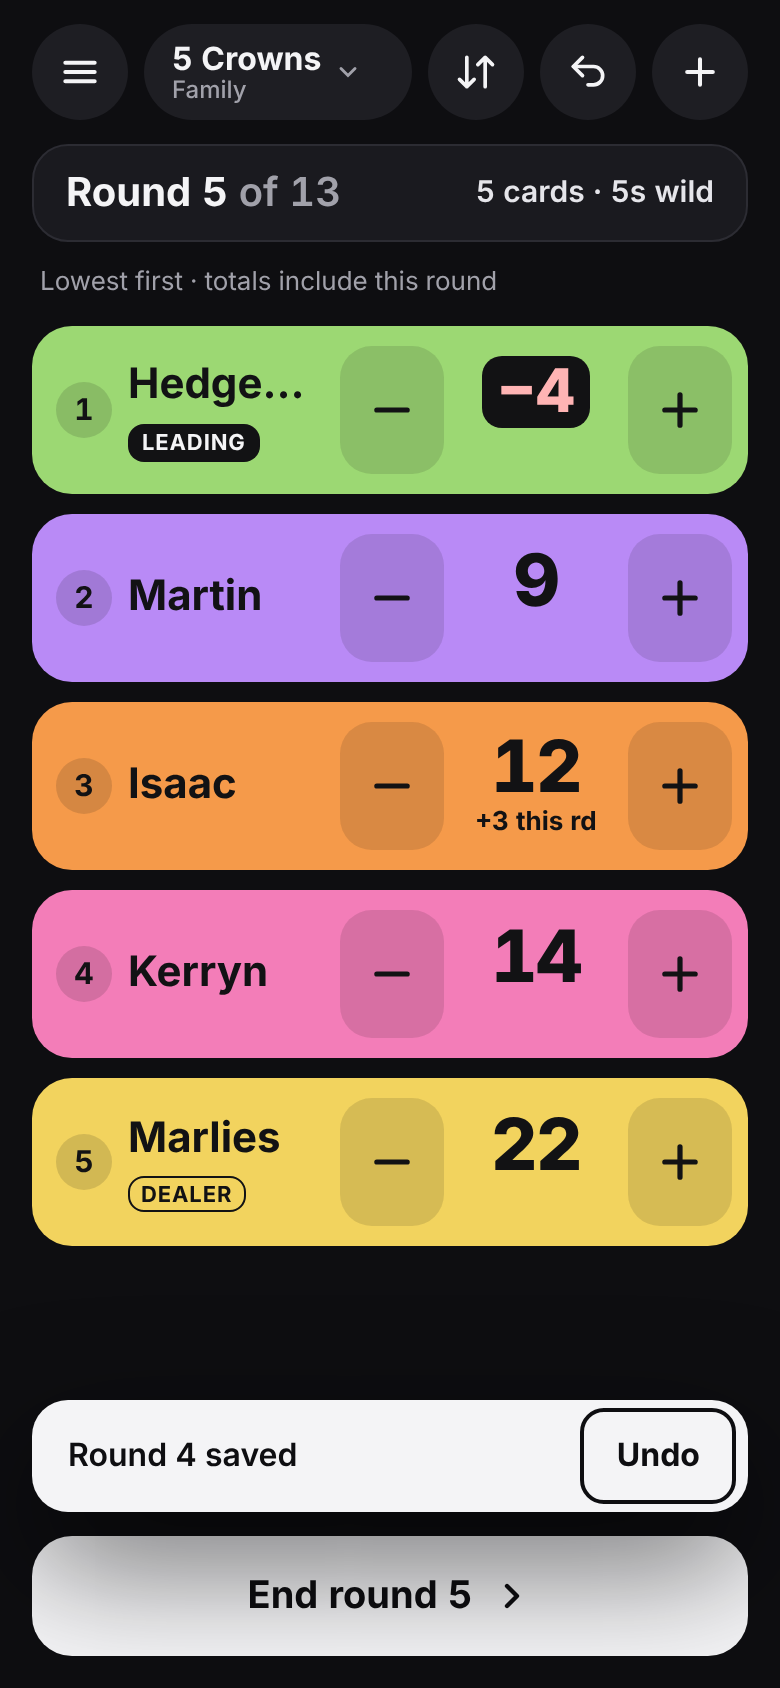
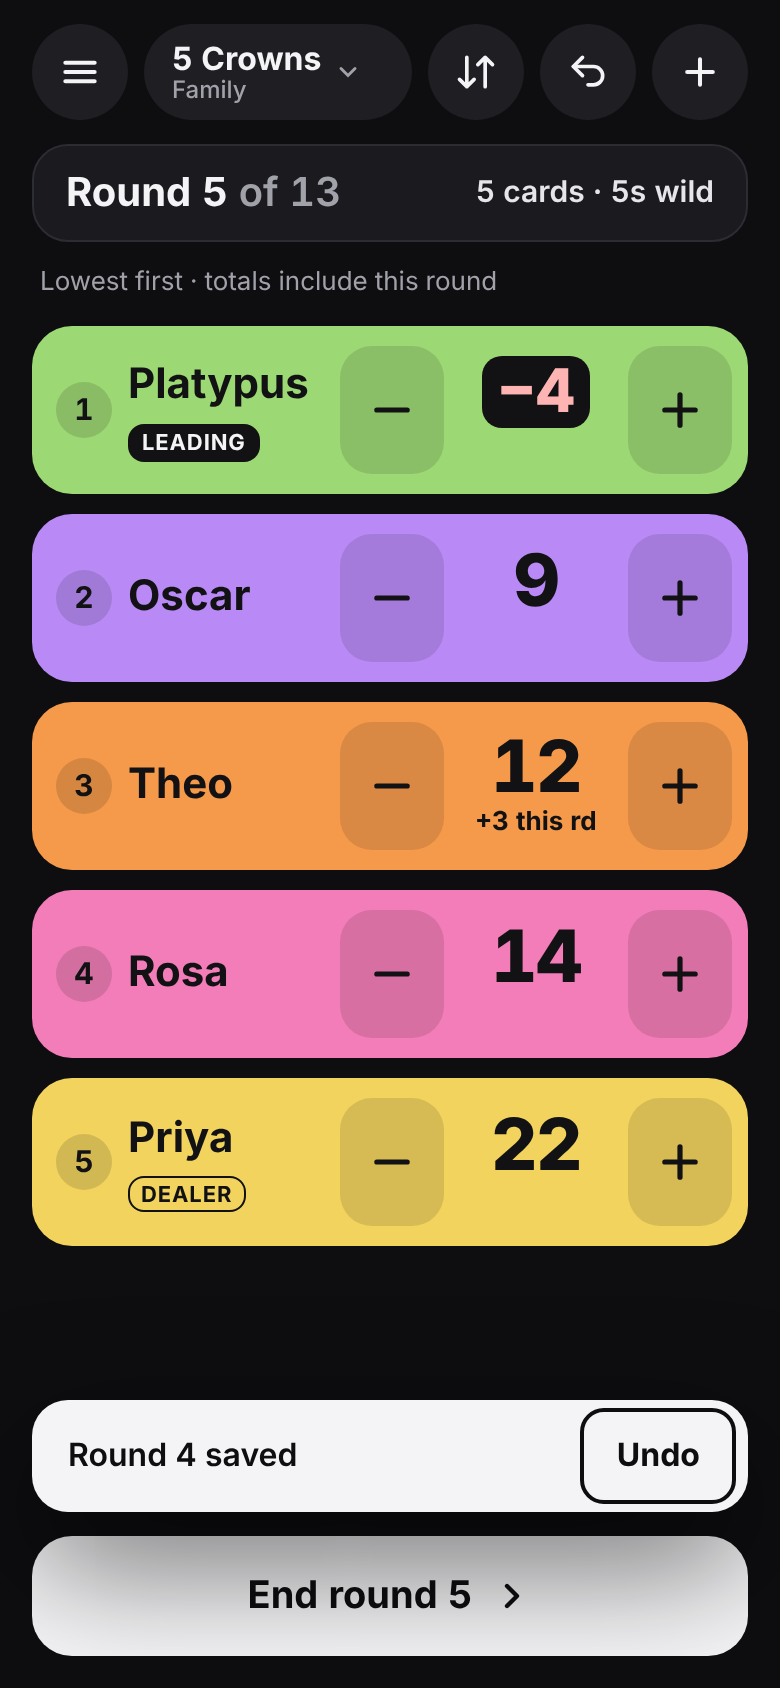
Use made-up player names in the README screenshot, screenshot script and design files
Claude-Session: https://claude.ai/code/session_01CcAe4iZxRfrWGg6J3kGq1z

diff --git a/design/screens/Group.dc.html b/design/screens/Group.dc.html
@@ -81,17 +81,17 @@ th,td{padding:0}
 class Component extends DCLogic {
   renderVals() {
     var stats = [
-      { name: 'Isaac', color: '#F59A4A', wins: 5, pct: '36%', avg: 88, best: 61 },
-      { name: 'Kerryn', color: '#F37DB8', wins: 4, pct: '29%', avg: 92, best: 58 },
-      { name: 'Marlies', color: '#F2D35E', wins: 3, pct: '21%', avg: 104, best: 70 },
-      { name: 'Martin', color: '#B98AF6', wins: 2, pct: '14%', avg: 110, best: 74 },
-      { name: 'Hedgehog', color: '#9CD873', wins: 0, pct: '0%', avg: 131, best: 97 }
+      { name: 'Theo', color: '#F59A4A', wins: 5, pct: '36%', avg: 88, best: 61 },
+      { name: 'Rosa', color: '#F37DB8', wins: 4, pct: '29%', avg: 92, best: 58 },
+      { name: 'Priya', color: '#F2D35E', wins: 3, pct: '21%', avg: 104, best: 70 },
+      { name: 'Oscar', color: '#B98AF6', wins: 2, pct: '14%', avg: 110, best: 74 },
+      { name: 'Platypus', color: '#9CD873', wins: 0, pct: '0%', avg: 131, best: 97 }
     ];
     var past = [
-      { winner: 'Isaac', score: '73', meta: '5 Crowns · Tue 4 Nov · 4 players' },
-      { winner: 'Kerryn', score: '102', meta: 'Dutch Blitz · Sat 1 Nov · 5 players' },
-      { winner: 'Kerryn & Martin', score: '81', meta: '5 Crowns · Sat 1 Nov · tie' },
-      { winner: 'Marlies', score: '64', meta: '5 Crowns · Sun 26 Oct · 5 players' }
+      { winner: 'Theo', score: '73', meta: '5 Crowns · Tue 4 Nov · 4 players' },
+      { winner: 'Rosa', score: '102', meta: 'Dutch Blitz · Sat 1 Nov · 5 players' },
+      { winner: 'Rosa & Oscar', score: '81', meta: '5 Crowns · Sat 1 Nov · tie' },
+      { winner: 'Priya', score: '64', meta: '5 Crowns · Sun 26 Oct · 5 players' }
     ].map(function (g, i) { return Object.assign(g, { border: i === 0 ? '0' : '1px solid #26262C' }); });
     return { stats: stats, past: past };
   }

diff --git a/design/screens/PhoneLandscape.dc.html b/design/screens/PhoneLandscape.dc.html
@@ -43,7 +43,7 @@ button:focus-visible,a:focus-visible{outline:3px solid #FFFFFF;outline-offset:2p
     </div>
     <div style="background: #1A1A1F; border: 1px solid #2C2C33; border-radius: 16px; padding: 10px 12px; display: flex; flex-direction: column; gap: 2px">
       <span style="font-size: 18px; font-weight: 800">Round 5 <span style="color: #A1A1AA; font-weight: 600">of 13</span></span>
-      <span style="font-size: 13px; color: #E5E5EA; font-weight: 600">5s wild · Marlies deals</span>
+      <span style="font-size: 13px; color: #E5E5EA; font-weight: 600">5s wild · Priya deals</span>
     </div>
     <div style="flex-grow: 1"></div>
     <a href="RoundEntry.dc.html" style="height: 52px; border-radius: 16px; background: #F4F4F6; color: #0E0E11; display: flex; align-items: center; justify-content: center; font-size: 17px; font-weight: 700; text-decoration: none">End round 5</a>
@@ -53,7 +53,7 @@ button:focus-visible,a:focus-visible{outline:3px solid #FFFFFF;outline-offset:2p
 <script type="text/x-dc" data-dc-script data-props='{"$preview":{"width":844,"height":390}}'>
 class Component extends DCLogic {
   renderVals() {
-    var raw = [['Hedgehog', '#9CD873', -4], ['Isaac', '#F59A4A', 9], ['Martin', '#B98AF6', 9], ['Kerryn', '#F37DB8', 14], ['Marlies', '#F2D35E', 22], ['Panda', '#6CCFB4', 28]];
+    var raw = [['Platypus', '#9CD873', -4], ['Theo', '#F59A4A', 9], ['Oscar', '#B98AF6', 9], ['Rosa', '#F37DB8', 14], ['Priya', '#F2D35E', 22], ['Panda', '#6CCFB4', 28]];
     var rank = 0, prev = null;
     var players = raw.map(function (p, i) {
       if (p[2] !== prev) { rank = i + 1; prev = p[2]; }

diff --git a/design/screens/iPadLandscape.dc.html b/design/screens/iPadLandscape.dc.html
@@ -56,7 +56,7 @@ th,td{padding:0}
     <aside aria-label="Round and history" style="width: 340px; flex-shrink: 0; display: flex; flex-direction: column; gap: 14px">
       <div style="background: #1A1A1F; border: 1px solid #2C2C33; border-radius: 20px; padding: 16px 20px; display: flex; flex-direction: column; gap: 2px">
         <span style="font-size: 26px; font-weight: 800">Round 5 <span style="color: #A1A1AA; font-weight: 600">of 13</span></span>
-        <span style="font-size: 17px; color: #E5E5EA; font-weight: 600">5 cards · 5s wild · Marlies deals</span>
+        <span style="font-size: 17px; color: #E5E5EA; font-weight: 600">5 cards · 5s wild · Priya deals</span>
       </div>
       <div style="background: #1A1A1F; border: 1px solid #2C2C33; border-radius: 20px; padding: 12px 16px">
         <table style="width: 100%; border-collapse: collapse; font-size: 16px">
@@ -85,8 +85,8 @@ class Component extends DCLogic {
   renderVals() {
     var fmt = function (n) { return n < 0 ? '−' + Math.abs(n) : '' + n; };
     var raw = [
-      ['Hedgehog', '#9CD873', -2, -2, 'Leading'], ['Isaac', '#F59A4A', 0, 9, ''], ['Martin', '#B98AF6', 3, 6, ''],
-      ['Kerryn', '#F37DB8', 8, 6, ''], ['Marlies', '#F2D35E', 12, 10, 'Dealer'], ['Panda', '#6CCFB4', 15, 13, '']
+      ['Platypus', '#9CD873', -2, -2, 'Leading'], ['Theo', '#F59A4A', 0, 9, ''], ['Oscar', '#B98AF6', 3, 6, ''],
+      ['Rosa', '#F37DB8', 8, 6, ''], ['Priya', '#F2D35E', 12, 10, 'Dealer'], ['Panda', '#6CCFB4', 15, 13, '']
     ];
     var rank = 0, prev = null;
     var players = raw.map(function (p, i) {

diff --git a/design/screens/GameOver.dc.html b/design/screens/GameOver.dc.html
@@ -21,7 +21,7 @@ th,td{padding:0}
   <div style="display: flex; align-items: center; gap: 14px; background: #F59A4A; color: #121214; border-radius: 22px; padding: 16px 18px">
     <svg aria-hidden="true" width="40" height="40" viewBox="0 0 24 24" fill="none" stroke="currentColor" stroke-width="2" stroke-linecap="round" stroke-linejoin="round"><path d="M3 7l4 4 5-7 5 7 4-4-2 12H5z"></path></svg>
     <div style="display: flex; flex-direction: column; gap: 2px">
-      <h1 style="margin: 0; font-size: 28px; font-weight: 800">Isaac wins</h1>
+      <h1 style="margin: 0; font-size: 28px; font-weight: 800">Theo wins</h1>
       <span style="font-size: 14px; font-weight: 600">73 points · lowest score wins</span>
     </div>
   </div>
@@ -71,10 +71,10 @@ th,td{padding:0}
 class Component extends DCLogic {
   renderVals() {
     var players = [
-      { name: 'Isaac', color: '#F59A4A', s: [8,0,0,15,0,11,23,0,0,16,0] },
-      { name: 'Kerryn', color: '#F37DB8', s: [0,12,5,0,18,7,0,22,9,0,14] },
-      { name: 'Martin', color: '#B98AF6', s: [11,15,0,9,0,19,0,8,0,30,9] },
-      { name: 'Marlies', color: '#F2D35E', s: [4,9,14,0,6,0,12,15,21,0,27] }
+      { name: 'Theo', color: '#F59A4A', s: [8,0,0,15,0,11,23,0,0,16,0] },
+      { name: 'Rosa', color: '#F37DB8', s: [0,12,5,0,18,7,0,22,9,0,14] },
+      { name: 'Oscar', color: '#B98AF6', s: [11,15,0,9,0,19,0,8,0,30,9] },
+      { name: 'Priya', color: '#F2D35E', s: [4,9,14,0,6,0,12,15,21,0,27] }
     ];
     var base = 'text-align: right; padding-right: 8px; ';
     var rounds = [];

diff --git a/design/screens/PlayerEdit.dc.html b/design/screens/PlayerEdit.dc.html
@@ -25,13 +25,13 @@ button:focus-visible,a:focus-visible,input:focus-visible{outline:3px solid #FFFF
   </div>
 
   <div aria-hidden="true" style="background: {{color}}; color: #121214; border-radius: 20px; height: 84px; padding: 0 20px; display: flex; align-items: center; justify-content: space-between">
-    <span style="font-size: 24px; font-weight: 700">Isaac</span>
+    <span style="font-size: 24px; font-weight: 700">Theo</span>
     <span style="font-size: 36px; font-weight: 800">9</span>
   </div>
 
   <label style="display: flex; flex-direction: column; gap: 6px; padding: 0 4px">
     <span style="font-size: 13px; font-weight: 600; color: #A1A1AA; letter-spacing: 0.04em; text-transform: uppercase">Name</span>
-    <input type="text" value="Isaac" maxlength="20" style="height: 52px; border-radius: 14px; border: 1px solid #3A3A42; background: #1A1A1F; color: #F4F4F6; padding: 0 14px; font-size: 18px; font-weight: 600; font-family: inherit; box-sizing: border-box">
+    <input type="text" value="Theo" maxlength="20" style="height: 52px; border-radius: 14px; border: 1px solid #3A3A42; background: #1A1A1F; color: #F4F4F6; padding: 0 14px; font-size: 18px; font-weight: 600; font-family: inherit; box-sizing: border-box">
   </label>
 
   <div role="radiogroup" aria-label="Colour" style="display: flex; flex-direction: column; gap: 8px; padding: 0 4px">

diff --git a/design/screens/Themes.dc.html b/design/screens/Themes.dc.html
@@ -47,7 +47,7 @@ class Component extends DCLogic {
       { name: 'Light', bg: '#F4F3F0', chip: '#E6E4DF', chipBorder: 'none', strip: '#FFFFFF', stripBorder: '1px solid #DAD8D3', text: '#18181B', muted: '#55555D', pBg: '#18181B', pText: '#FFFFFF', cardBorder: '1px solid rgba(0,0,0,0.14)', plate: 'background: rgba(18,18,20,0.12); border: 0', negBg: '#121214', negText: '#FFB4B4' },
       { name: 'High contrast', bg: '#000000', chip: '#000000', chipBorder: '2px solid #FFFFFF', strip: '#000000', stripBorder: '2px solid #FFFFFF', text: '#FFFFFF', muted: '#FFFFFF', pBg: '#FFFFFF', pText: '#000000', cardBorder: '3px solid #FFFFFF', plate: 'background: transparent; border: 2.5px solid #000000', negBg: '#000000', negText: '#FFFFFF' }
     ];
-    var people = [['Hedgehog', '#9CD873', -4], ['Isaac', '#F59A4A', 9], ['Kerryn', '#F37DB8', 14], ['Marlies', '#F2D35E', 22]];
+    var people = [['Platypus', '#9CD873', -4], ['Theo', '#F59A4A', 9], ['Rosa', '#F37DB8', 14], ['Priya', '#F2D35E', 22]];
     var themes = T.map(function (t) {
       var chip = 'height: 48px; border-radius: 24px; background: ' + t.chip + '; border: ' + t.chipBorder + '; color: ' + t.text + '; display: flex; align-items: center; box-sizing: border-box; ';
       return {

diff --git a/design/screens/iPadScore.dc.html b/design/screens/iPadScore.dc.html
@@ -113,11 +113,11 @@ class Component extends DCLogic {
   constructor(props) {
     super(props);
     this.seats = [
-      { id: 'k', name: 'Kerryn', color: '#F37DB8', past: [8, 6] },
-      { id: 'i', name: 'Isaac', color: '#F59A4A', past: [0, 9] },
-      { id: 'm', name: 'Marlies', color: '#F2D35E', past: [12, 10] },
-      { id: 't', name: 'Martin', color: '#B98AF6', past: [3, 6] },
-      { id: 'h', name: 'Hedgehog', color: '#9CD873', past: [-2, -2] },
+      { id: 'k', name: 'Rosa', color: '#F37DB8', past: [8, 6] },
+      { id: 'i', name: 'Theo', color: '#F59A4A', past: [0, 9] },
+      { id: 'm', name: 'Priya', color: '#F2D35E', past: [12, 10] },
+      { id: 't', name: 'Oscar', color: '#B98AF6', past: [3, 6] },
+      { id: 'h', name: 'Platypus', color: '#9CD873', past: [-2, -2] },
       { id: 'p', name: 'Panda', color: '#6CCFB4', past: [15, 13] }
     ];
     var players = this.seats.map(function (s) { return { id: s.id, name: s.name, color: s.color, total: s.past[0] + s.past[1], round: 0 }; });

diff --git a/design/screens/Phone.dc.html b/design/screens/Phone.dc.html
@@ -94,11 +94,11 @@ class Component extends DCLogic {
     super(props);
     this.state = {
       players: [
-        { id: 'k', name: 'Kerryn', color: '#F37DB8', total: 14, round: 0 },
-        { id: 'i', name: 'Isaac', color: '#F59A4A', total: 9, round: 0 },
-        { id: 'm', name: 'Marlies', color: '#F2D35E', total: 22, round: 0 },
-        { id: 't', name: 'Martin', color: '#B98AF6', total: 9, round: 0 },
-        { id: 'h', name: 'Hedgehog', color: '#9CD873', total: -4, round: 0 }
+        { id: 'k', name: 'Rosa', color: '#F37DB8', total: 14, round: 0 },
+        { id: 'i', name: 'Theo', color: '#F59A4A', total: 9, round: 0 },
+        { id: 'm', name: 'Priya', color: '#F2D35E', total: 22, round: 0 },
+        { id: 't', name: 'Oscar', color: '#B98AF6', total: 9, round: 0 },
+        { id: 'h', name: 'Platypus', color: '#9CD873', total: -4, round: 0 }
       ],
       order: [], dir: 'asc', round: 5, dealer: 'm', pending: false, history: []
     };

diff --git a/design/screens/NewGame.dc.html b/design/screens/NewGame.dc.html
@@ -67,11 +67,11 @@ button:focus-visible,a:focus-visible{outline:3px solid #FFFFFF;outline-offset:2p
 class Component extends DCLogic {
   renderVals() {
     var people = [
-      { name: 'Isaac', color: '#F59A4A', on: true },
-      { name: 'Kerryn', color: '#F37DB8', on: true },
-      { name: 'Martin', color: '#B98AF6', on: true },
-      { name: 'Marlies', color: '#F2D35E', on: true },
-      { name: 'Hedgehog', color: '#9CD873', on: false }
+      { name: 'Theo', color: '#F59A4A', on: true },
+      { name: 'Rosa', color: '#F37DB8', on: true },
+      { name: 'Oscar', color: '#B98AF6', on: true },
+      { name: 'Priya', color: '#F2D35E', on: true },
+      { name: 'Platypus', color: '#9CD873', on: false }
     ].map(function (p) {
       return Object.assign(p, {
         style: 'height: 44px; border-radius: 22px; padding: 0 16px 0 12px; display: flex; align-items: center; gap: 8px; font-size: 16px; font-weight: 600; '

diff --git a/design/screens/RoundEntry.dc.html b/design/screens/RoundEntry.dc.html
@@ -64,11 +64,11 @@ class Component extends DCLogic {
     super(props);
     this.state = {
       players: [
-        { id: 'k', name: 'Kerryn', color: '#F37DB8', total: 14, entry: '12' },
-        { id: 'i', name: 'Isaac', color: '#F59A4A', total: 9, entry: '0' },
-        { id: 'm', name: 'Marlies', color: '#F2D35E', total: 22, entry: '' },
-        { id: 't', name: 'Martin', color: '#B98AF6', total: 9, entry: '' },
-        { id: 'h', name: 'Hedgehog', color: '#9CD873', total: -4, entry: '' }
+        { id: 'k', name: 'Rosa', color: '#F37DB8', total: 14, entry: '12' },
+        { id: 'i', name: 'Theo', color: '#F59A4A', total: 9, entry: '0' },
+        { id: 'm', name: 'Priya', color: '#F2D35E', total: 22, entry: '' },
+        { id: 't', name: 'Oscar', color: '#B98AF6', total: 9, entry: '' },
+        { id: 'h', name: 'Platypus', color: '#9CD873', total: -4, entry: '' }
       ],
       sel: 2
     };

diff --git a/design/screens/iPadRoundEntry.dc.html b/design/screens/iPadRoundEntry.dc.html
@@ -70,11 +70,11 @@ class Component extends DCLogic {
     super(props);
     this.state = {
       players: [
-        { name: 'Hedgehog', color: '#9CD873', total: -4, entry: '0' },
-        { name: 'Isaac', color: '#F59A4A', total: 9, entry: '5' },
-        { name: 'Martin', color: '#B98AF6', total: 9, entry: '' },
-        { name: 'Kerryn', color: '#F37DB8', total: 14, entry: '' },
-        { name: 'Marlies', color: '#F2D35E', total: 22, entry: '' },
+        { name: 'Platypus', color: '#9CD873', total: -4, entry: '0' },
+        { name: 'Theo', color: '#F59A4A', total: 9, entry: '5' },
+        { name: 'Oscar', color: '#B98AF6', total: 9, entry: '' },
+        { name: 'Rosa', color: '#F37DB8', total: 14, entry: '' },
+        { name: 'Priya', color: '#F2D35E', total: 22, entry: '' },
         { name: 'Panda', color: '#6CCFB4', total: 28, entry: '' }
       ],
       sel: 2
